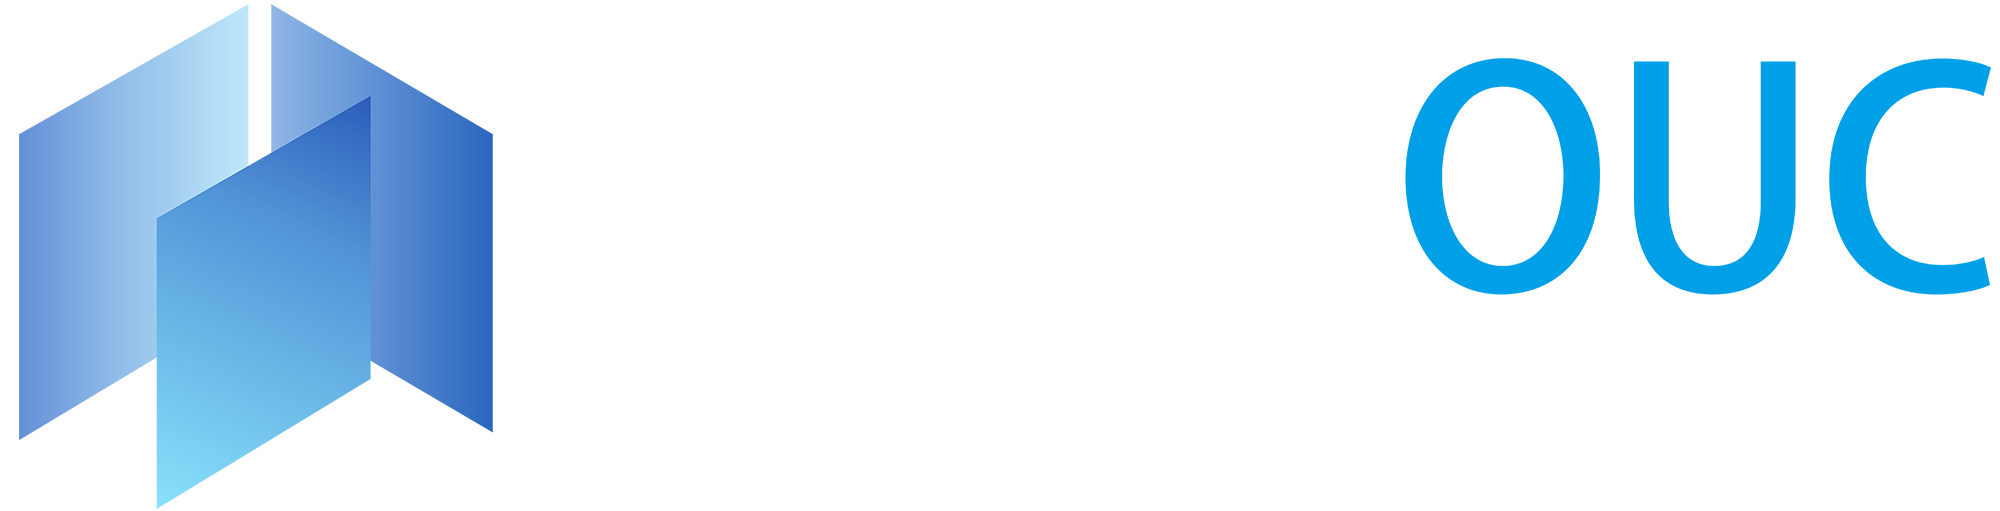
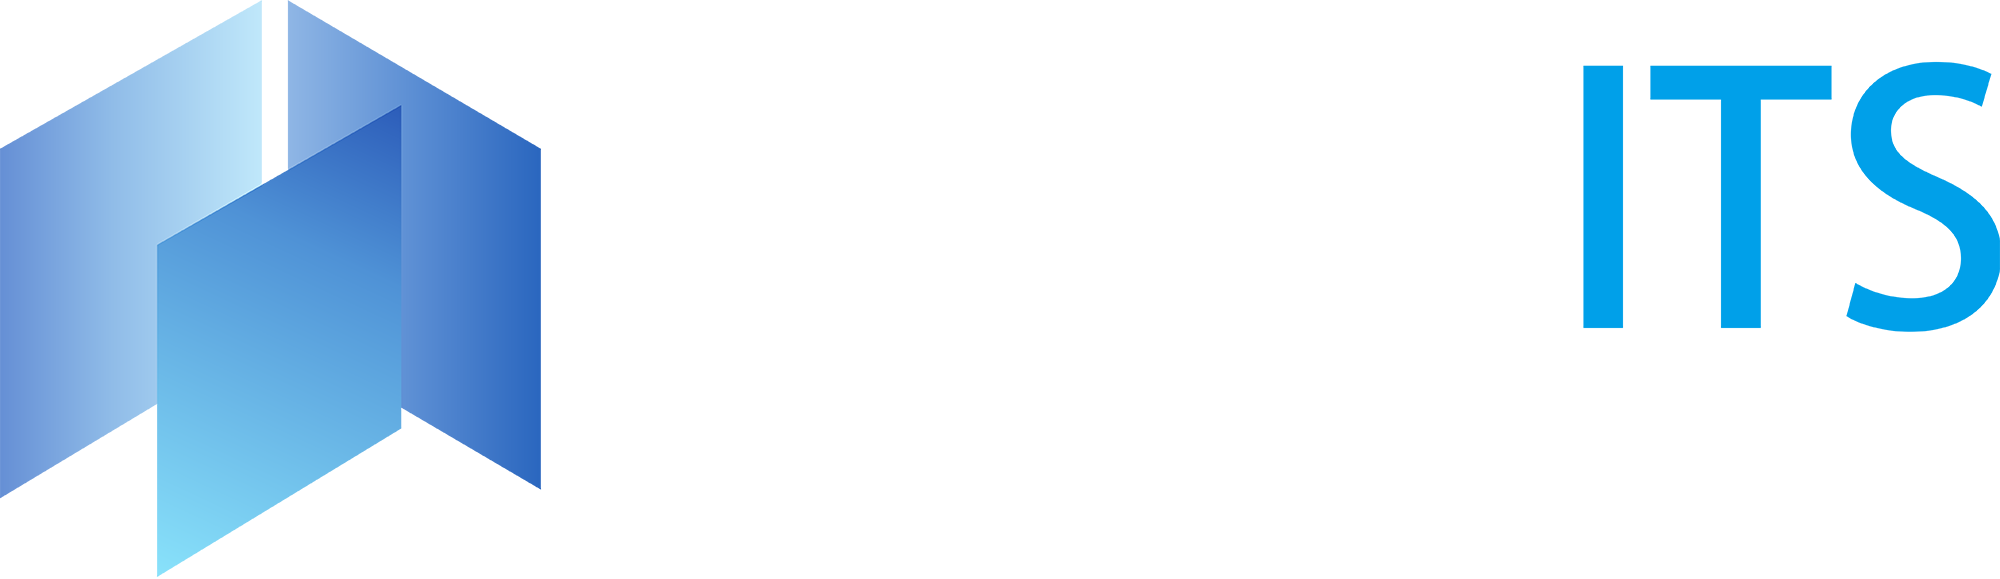
style: replace ouc.png to it.png, and change mirrorOUC style

diff --git a/src/style.css b/src/style.css
@@ -155,7 +155,7 @@ h2 { margin: 0; font-size: 19px; font-weight: 600; letter-spacing: -.04em; }
 .footer-affiliations { display: flex; align-items: flex-end; gap: 21px; width: 411px; max-width: 100%; margin-left: auto; }
 .footer-affiliation { position: relative; display: block; min-width: 0; }
 .footer-studio { flex: 240; --affiliation-image: url('/assets/itstudio.png'); --wordmark-start: 26%; }
-.footer-university { flex: 280; --affiliation-image: url('/assets/ouc.png'); --wordmark-start: 25.3%; }
+.footer-university { flex: 280; --affiliation-image: url('/assets/it.png'); --wordmark-start: 25.3%; }
 .footer-affiliation img { display: block; width: 100%; height: auto; }
 /* Recolor the pale wordmarks on light backgrounds while keeping the symbols in their original colors. */
 .footer-affiliation::after { content: ''; position: absolute; inset: 0; background: linear-gradient(to right, transparent var(--wordmark-start), #004098 var(--wordmark-start)); mask: var(--affiliation-image) center / contain no-repeat; pointer-events: none; }

diff --git a/src/App.vue b/src/App.vue
@@ -257,7 +257,7 @@ onBeforeUnmount(() => {
       <img src="/assets/itstudio.png" alt="" width="3849" height="990" />
     </a>
     <a class="footer-affiliation footer-university" href="https://www.ouc.edu.cn/" target="_blank" rel="noopener noreferrer" :aria-label="t('common.university')">
-      <img src="/assets/ouc.png" alt="" width="4384" height="1106" />
+      <img src="/assets/it.png" alt="" width="4384" height="1106" />
     </a>
   </div>
   <footer class="site-footer">
